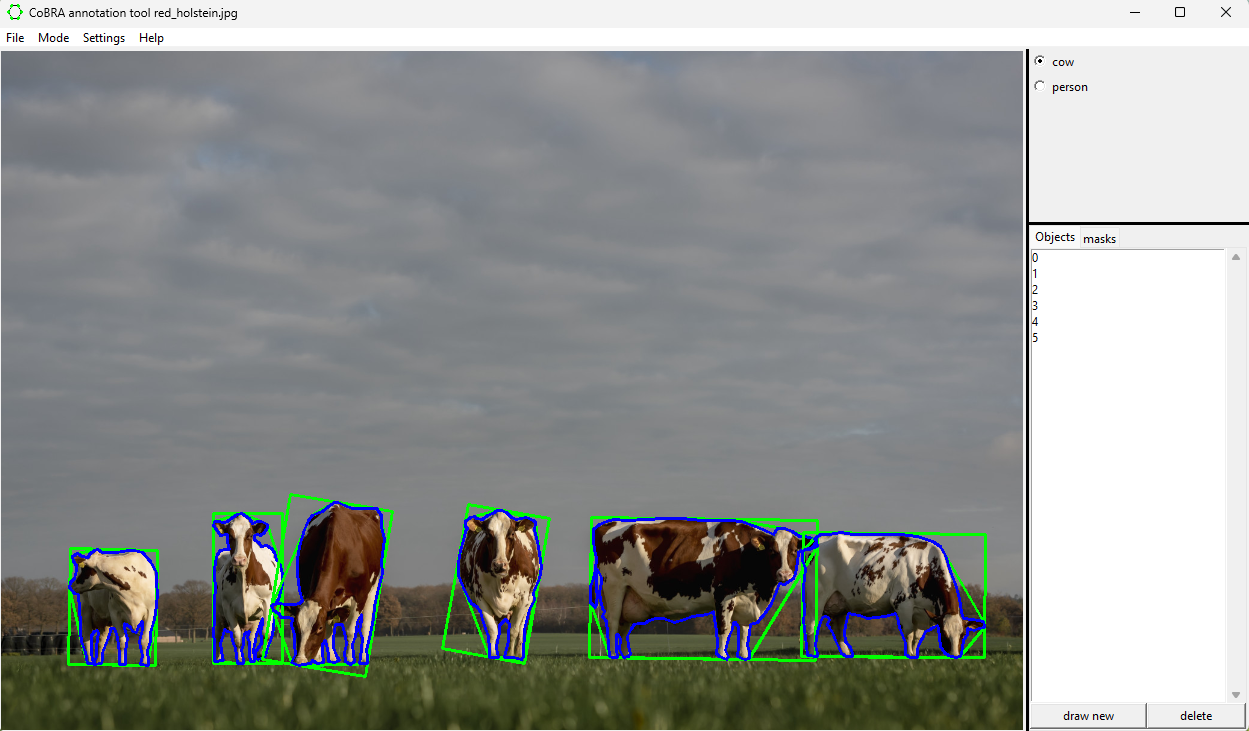
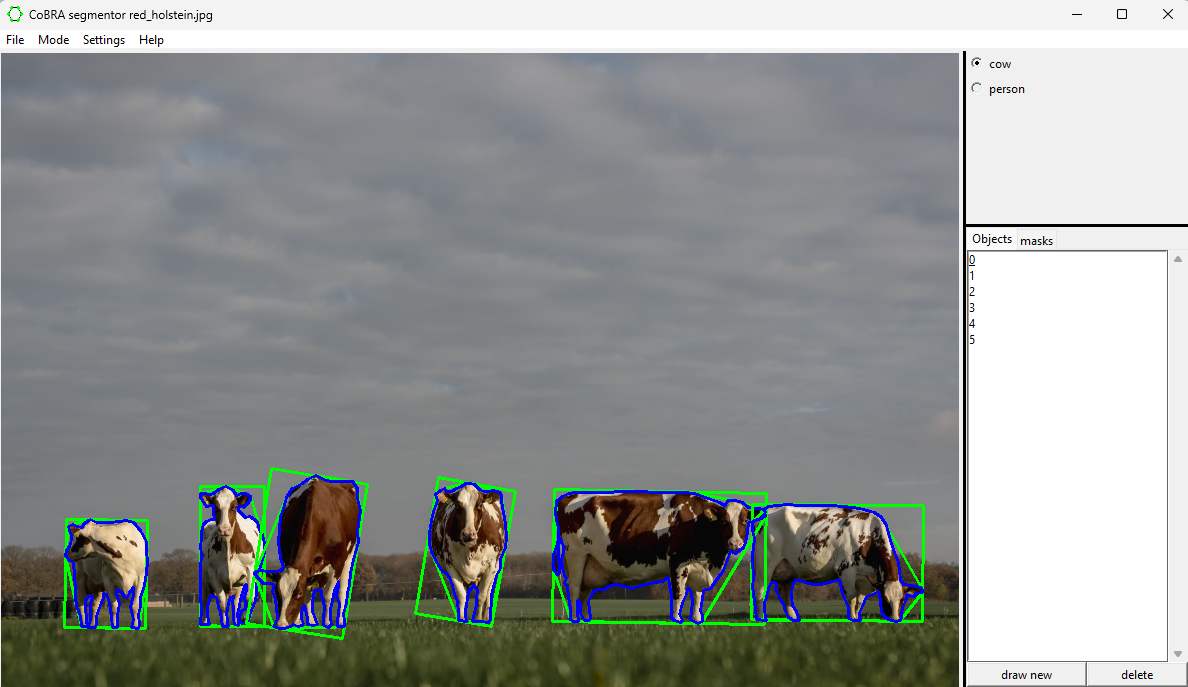
250311_final

diff --git a/image_object.py b/image_object.py
@@ -294,7 +294,7 @@ class ImageObject():
         """
 
         #Update title of application
-        self.master.master.title("CoBRA annotation tool " + self.image_name)
+        self.master.master.title("CoBRA segmentor " + self.image_name)
 
         #reset parameters
         self.reset()

diff --git a/README.md b/README.md
@@ -5,5 +5,5 @@ CoBRA_segmentor generates for each image a .json file containing 1) the coordina
 
 CoBRA_segmentor can be run from the CoBRA_segmentor.py file, but can also be compiled to an executable file using pyinstaller in combination with the compilation parameters specified in  CoBRA_segmentor.spec
 
-![image](images/red_holstein.png)
+![image](images/CoBRA_segmentor_application.png)
 
